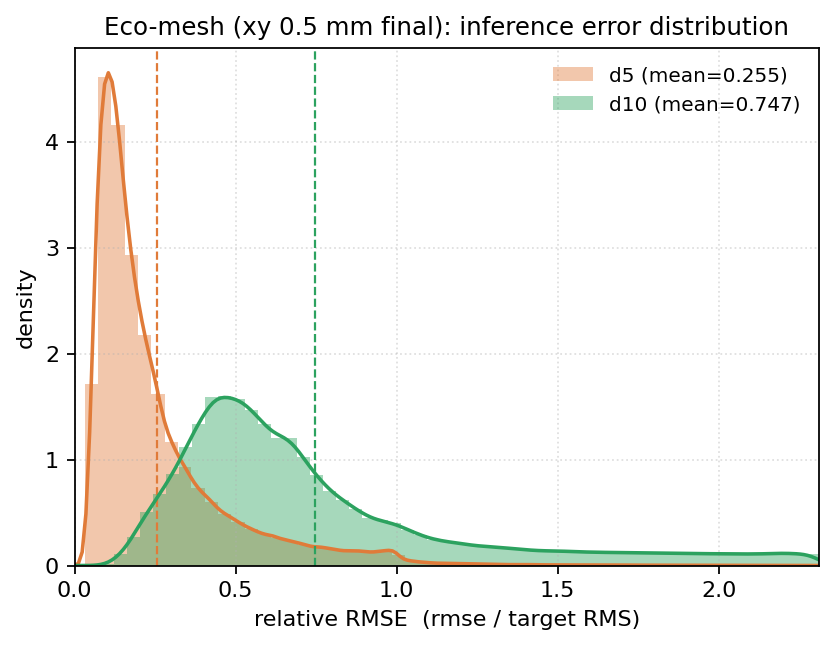
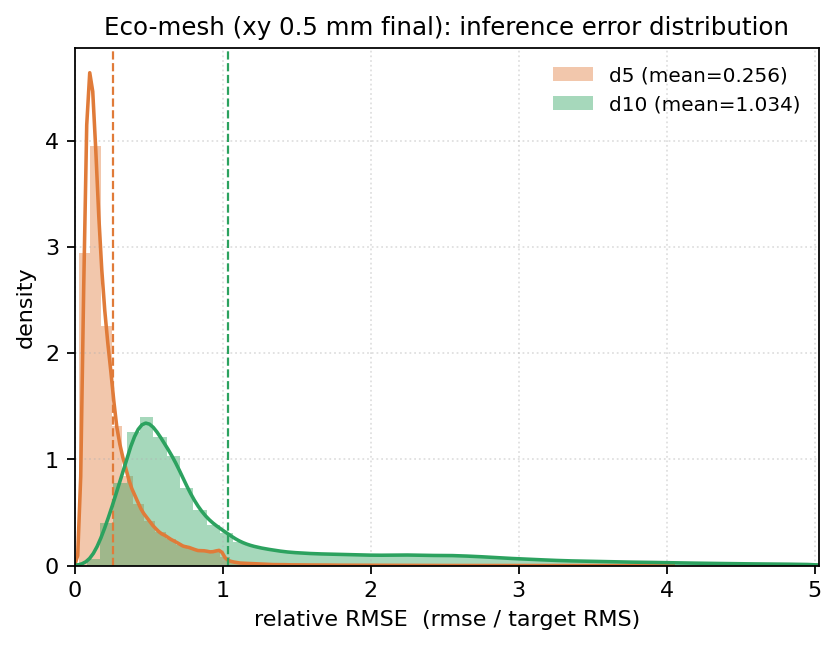
fix: ref-limits 클리핑 해결 (하한 방식 max(ref, computed))
final(xy0.5)의 d10 오차 분포가 xy1보다 넓어 xy1 축을 강제하면 D/E/F 상단이 잘림.
ref 를 '하한'으로 써서 figset 데이터가 넘치면 축을 확장(무클리핑),
xy1 범위 안이면 동일 축 유지. final D(z 0~2.3)·E(x 0~5)·F(y 0~7) 재생성.

Claude-Session: https://claude.ai/code/session_01ErRvCMiqdnquEF42VMr6QG

diff --git a/history/fig_data/visualizing_scripts/figure_set/generate_fig3_sats.py b/history/fig_data/visualizing_scripts/figure_set/generate_fig3_sats.py
@@ -91,10 +91,14 @@ COMPUTED_LIMITS: dict = {}
 
 
 def _lim(key: str, computed: float) -> float:
-    """패널의 축 한계 반환: 계산값을 저장하고, REF_LIMITS 가 있으면 그 값을 우선 사용."""
+    """패널의 축 한계 반환: 계산값을 저장하고, REF_LIMITS 가 있으면 max(ref, computed).
+
+    ref 를 '하한'으로 써서, 현재 figset 데이터가 ref 범위 안이면 ref 와 동일 축(비교 가능),
+    ref 를 넘으면 축을 확장해 데이터가 잘리지 않게 한다(예: final xy0.5 의 d10 오차는 xy1 보다 넓음).
+    """
     COMPUTED_LIMITS[key] = float(computed)
     if REF_LIMITS is not None and key in REF_LIMITS:
-        return float(REF_LIMITS[key])
+        return max(float(REF_LIMITS[key]), float(computed))
     return float(computed)
 
 